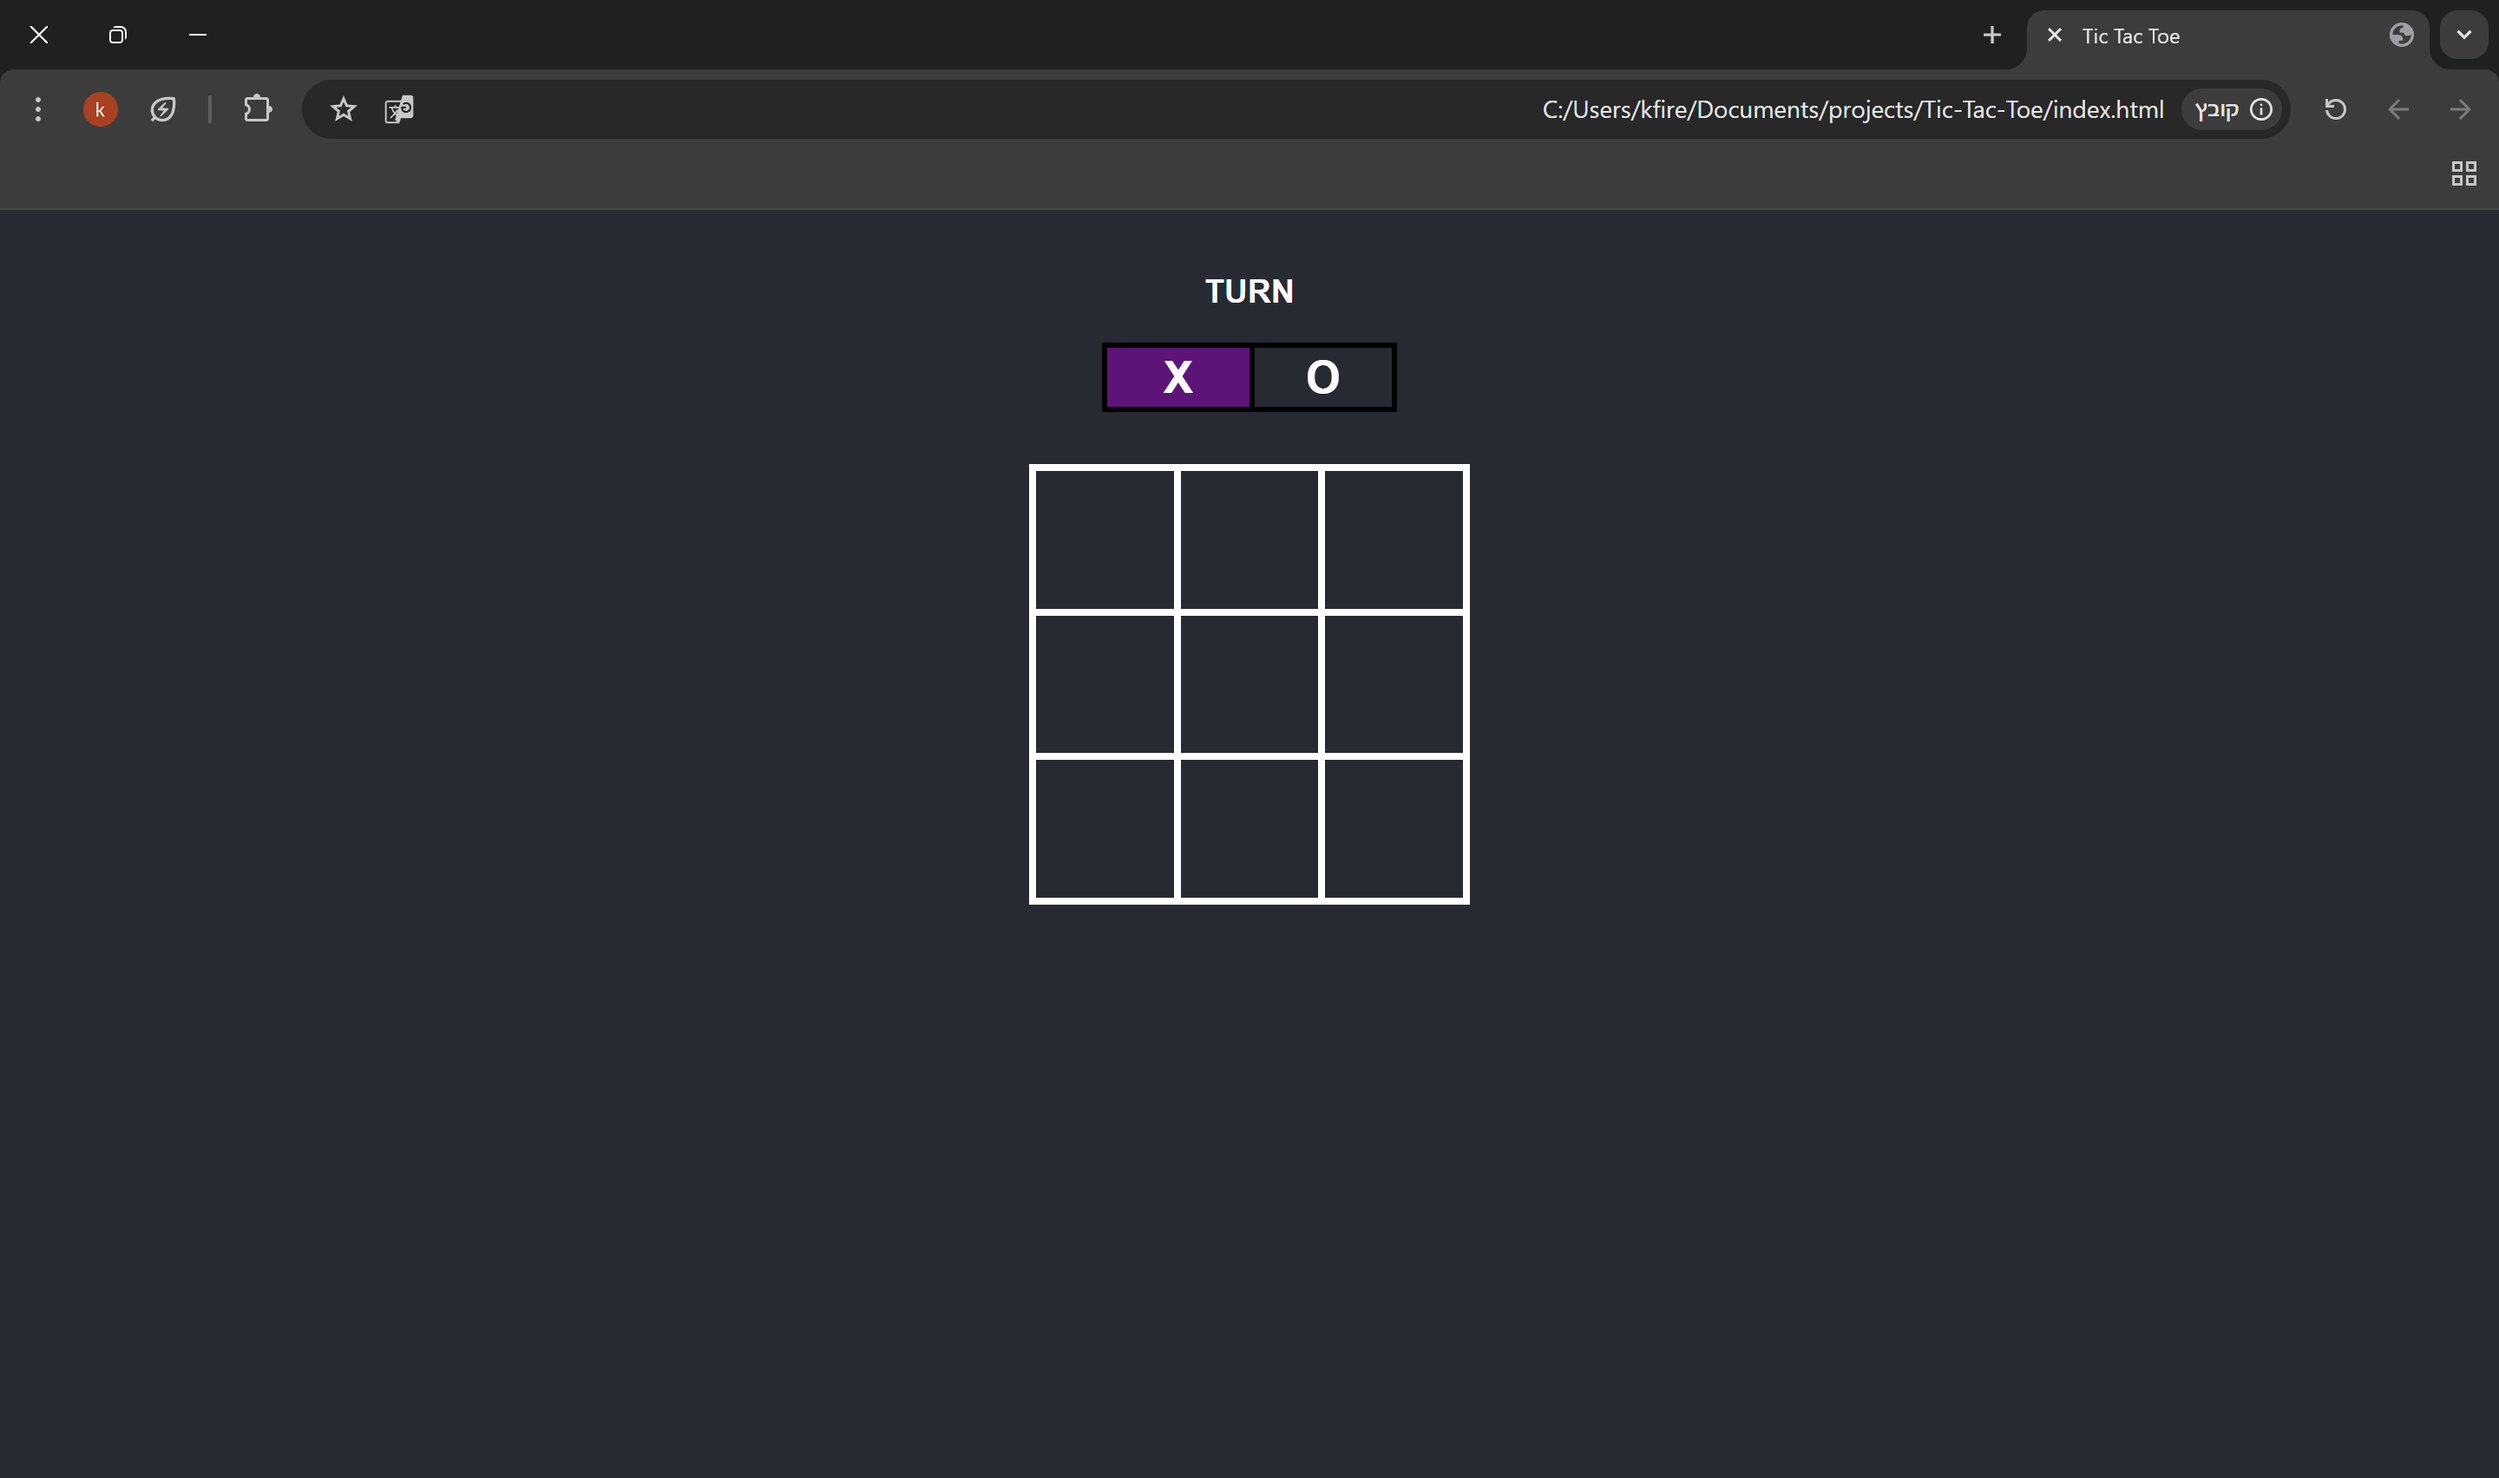
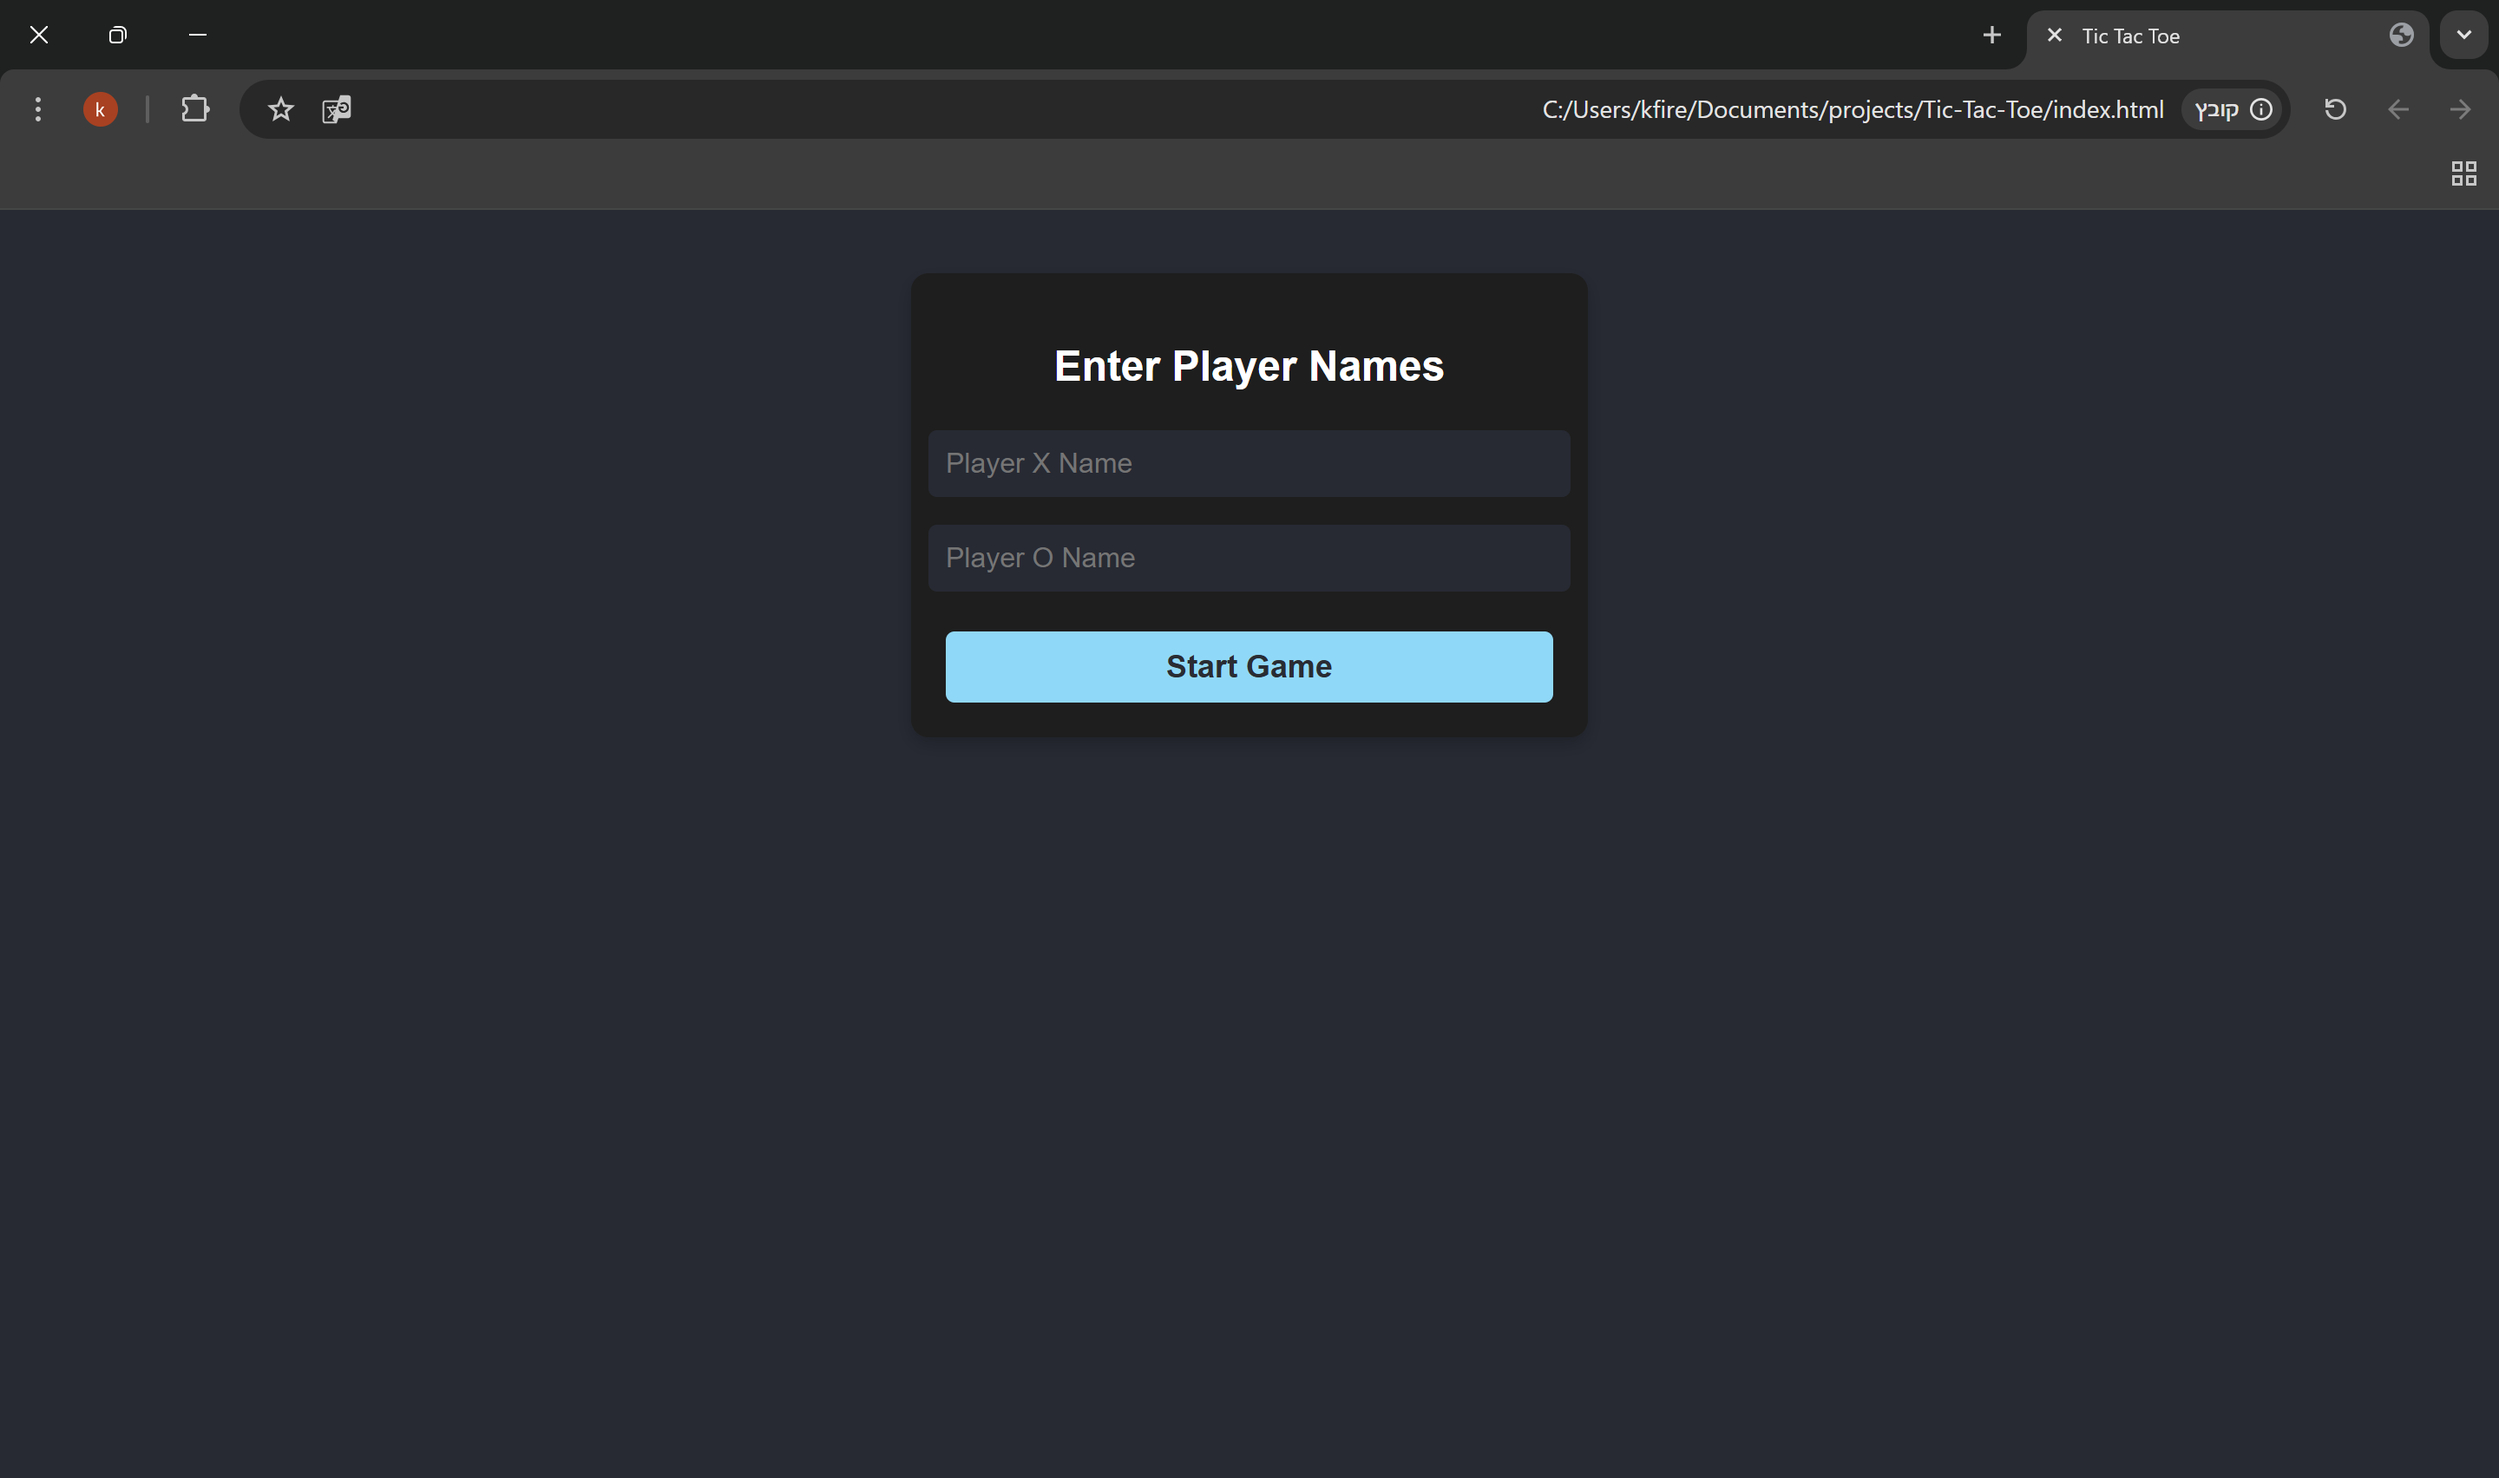
added players names and score board

diff --git a/script.js b/script.js
@@ -1,3 +1,4 @@
+// game variables
 let boxes = document.querySelectorAll(".box");
 let turn = "X";
 let gameOver = false;
@@ -5,21 +6,44 @@ const results = document.querySelector("#results");
 const playAgain =document.querySelector("#play-again")
 const bg = document.querySelector(".bg");
 
+// player data
+let playerX = "";
+let playerO = "";
+let scores = {X: 0 , O: 0};
+let startGame = document.querySelector("#start-game");
+
+// patterns to win on the board
 const winPatterns = [
-    [0, 1, 2], // Row 1
-    [3, 4, 5], // Row 2
-    [6, 7, 8], // Row 3
-    [0, 3, 6], // Column 1
-    [1, 4, 7], // Column 2
-    [2, 5, 8], // Column 3
-    [0, 4, 8], // Diagonal 1
-    [2, 4, 6]  // Diagonal 2
+    [0, 1, 2], [3, 4, 5], [6, 7, 8],
+    [0, 3, 6], [1, 4, 7], [2, 5, 8],
+    [0, 4, 8], [2, 4, 6]
 ];
+
+startGame.addEventListener("click", function () {
+    // set the players name
+    playerX = document.querySelector("#playerX").value || "Player X";
+    playerO = document.querySelector("#playerO").value || "Player O";
+
+    // show the game board
+    document.querySelector("#player-setup").style.display = "none";
+    document.querySelector("#game-board").style.display = "grid";
+
+    // put the players names on the score board
+    document.querySelector("#playerX-name").innerText = playerX;
+    document.querySelector("#playerO-name").innerText = playerO;
+});
+
+// if the user cliick enter it will start the game
+document.addEventListener("keydown", function(event) {
+    if (event.key === "Enter") {
+        startGame.click();
+    }
+});
 
 // for each box add listener on click to check wining, draw and change turnS
 boxes.forEach(e => {
     e.innerHTML = ""
-    e.addEventListener("click", function(){
+    e.addEventListener("click", function() {
         if(!gameOver && e.innerHTML == "") {
             e.innerHTML = turn;
             checkWin();
@@ -32,28 +56,22 @@ boxes.forEach(e => {
 
 // change turn function, also change the mark on the player symbole
 function changeTurn() {
-    if (turn === "X") {
-        turn = "O";
-        bg.style.left = "85px"
-    } else {
-        turn = "X";
-        bg.style.left = "0"
-    }
+    turn = (turn === "X") ? "O" : "X";
+    bg.style.left = (turn === "X") ? "0" : "85px";
 }
 
 // check if there is a winner
 function checkWin() {
     winPatterns.forEach(pattern => {
-        // if there is a player with one pattern, it means he won
+        // if there is a player with one pattern, game over
         let [a, b, c] = pattern;
         if (
             boxes[a].innerHTML &&
             boxes[a].innerHTML === boxes[b].innerHTML &&
             boxes[a].innerHTML === boxes[c].innerHTML
         ) {
-            // set game over and print the msg
+            // set game over
             gameOver = true;
-            results.innerText = turn + " wins!";
 
             // change the background of the wining boxes
             boxes[a].style.backgroundColor = "#007d69";
@@ -63,15 +81,26 @@ function checkWin() {
             // show play again btn
             playAgain.style.display = "inline";
 
-            // change the color of the wining symbole bg
+            // change the color of the wining symbole bg and cahnge the score
             if (turn === "X") {
                 bg.style.left = "0";
+                scores.X += 1;
             } else {
                 bg.style.left = "85px";
+                scores.O += 1;
             }
             bg.style.backgroundColor = "#007d69";
+
+            // update the score board
+            updateScore();
         }
     });
+}
+
+// update the score boxs
+function updateScore() {
+    document.querySelector("#scoreX").innerText = scores.X;
+    document.querySelector("#scoreO").innerText = scores.O;
 }
 
 // check if there is a draw
@@ -80,7 +109,7 @@ function checkDraw() {
     if (![...boxes].some(box => box.innerHTML === "") && !gameOver) {
         // set game over and print msg
         gameOver = true;
-        results.innerText = "It's a Draw! 🤝";
+        results.innerText = "It's a Draw!";
 
         // draw all the boxes
         boxes.forEach(box => (box.style.backgroundColor = "#69007d"));
@@ -102,11 +131,11 @@ playAgain.addEventListener("click", () => {
 
     results.innerText = "";
     gameOver = false;
-    turn = "X";
+    
+    // if the O wins he will start
+    turn = (turn === "X") ? "X" : "O";
+    bg.style.left = (turn === "X") ? "0" : "85px";
+    bg.style.backgroundColor = "#69007d";
 
     document.getElementById("play-again").style.display = "none";
-
-    document.querySelector(".bg").style.left = "0";
-
-    bg.style.backgroundColor = "#69007d";
 });

diff --git a/index.html b/index.html
@@ -5,25 +5,50 @@
     <link rel="stylesheet" href="styles.css"/>
 </head>
 <body>
-    <div class="turn-container">
-        <h3>TURN</h3>
-        <div class="turn-box align">X</div>
-        <div class="turn-box align">O</div>
-        <div class="bg"></div>
+    <div id="player-setup">
+        <h2>Enter Player Names</h2>
+        <input type="text" id="playerX" placeholder="Player X Name">
+        <input type="text" id="playerO" placeholder="Player O Name">
+        <button id="start-game">Start Game</button>
     </div>
-    <div class="main-grid">
-        <div class="box align">0</div>
-        <div class="box align">1</div>
-        <div class="box align">2</div>
-        <div class="box align">3</div>
-        <div class="box align">4</div>
-        <div class="box align">5</div>
-        <div class="box align">6</div>
-        <div class="box align">7</div>
-        <div class="box align">8</div>
+
+
+    <div id="game-board" style="display: none;">
+        <div class="turn-container">
+            <h3>TURN</h3>
+            <div class="turn-box align">X</div>
+            <div class="turn-box align">O</div>
+            <div class="bg"></div>
+        </div>
+        <div class="main-grid">
+            <div class="box align">0</div>
+            <div class="box align">1</div>
+            <div class="box align">2</div>
+            <div class="box align">3</div>
+            <div class="box align">4</div>
+            <div class="box align">5</div>
+            <div class="box align">6</div>
+            <div class="box align">7</div>
+            <div class="box align">8</div>
+        </div>
+
+        <div id="scores">
+            <h3>Scoreboard</h3>
+            <div class="score-container">
+                <div class="player-score">
+                    <span id="playerX-name">Player X:</span>
+                    <span id="scoreX">0</span>
+                </div>
+                <div class="player-score">
+                    <span id="playerO-name">Player O:</span>
+                    <span id="scoreO">0</span>
+                </div>
+            </div>
+        </div>
+
+        <h2 id="results"></h2>
+        <button id="play-again">Play Again</button>
     </div>
-    <h2 id="results"></h2>
-    <button id="play-again">Play Again</button>
     <script src="script.js"></script>
 </body>
 </html>

diff --git a/styles.css b/styles.css
@@ -16,6 +16,8 @@ body {
     width: 100vw;
     text-align: center;
     padding-top: 5vh;
+    justify-content: center;
+    display: flex;
 }
 .main-grid {
     display: grid;
@@ -79,4 +81,104 @@ body {
     height: 40px;
     background-color: #69007d;
     z-index: -1;
+}
+
+#player-setup {
+    text-align: center;
+    background: #1e1e1e;
+    padding: 20px;
+    border-radius: 10px;
+    box-shadow: 0px 4px 10px rgba(0, 0, 0, 0.2);
+    width: 350px;
+    display: flex;
+    flex-direction: column;
+    justify-content: center;
+    align-items: center;
+}
+
+#player-setup h2 {
+    margin-bottom: 15px;
+    font-size: 24px;
+}
+
+#player-setup input {
+    width: 100%;
+    padding: 10px;
+    margin: 8px 0;
+    border: none;
+    border-radius: 5px;
+    font-size: 16px;
+    background-color: #252A34;
+}
+
+#player-setup input:focus {
+    outline: 2px solid #61dafb;
+}
+
+#start-game {
+    width: 100%;
+    padding: 10px;
+    margin-top: 15px;
+    background: #61dafb;
+    color: #282c34;
+    font-size: 18px;
+    font-weight: bold;
+    border: none;
+    border-radius: 5px;
+    cursor: pointer;
+    transition: background 0.3s;
+}
+
+#start-game:hover {
+    background: #4fa3d1;
+}
+
+#scores {
+    text-align: center;
+    margin-top: -5px;
+    padding: 15px;
+    background: #282c34;
+    border-radius: 12px;
+    box-shadow: 0px 6px 12px rgba(0, 0, 0, 0.15);
+    width: 280px;
+    color: #ffffff;
+}
+
+#scores h3 {
+    margin-bottom: 12px;
+    font-size: 20px;
+    font-weight: 600;
+    color: #61dafb;
+    letter-spacing: 1px;
+}
+
+.score-container {
+    display: flex;
+    justify-content: space-between;
+    padding: 10px;
+    background: rgba(255, 255, 255, 0.05);
+    border-radius: 8px;
+}
+
+.player-score {
+    display: flex;
+    flex-direction: column;
+    align-items: center;
+    justify-content: center;
+    width: 120px;
+    padding: 10px;
+    font-size: 18px;
+    font-weight: 500;
+}
+
+.player-score span:first-child {
+    color: #b0c4de;
+    font-size: 16px;
+    margin-bottom: 5px;
+}
+
+.player-score span:last-child {
+    font-size: 22px;
+    font-weight: bold;
+    color: #ffcc00;
 }

diff --git a/README.md b/README.md
@@ -5,3 +5,4 @@ A simple Tic-Tac-Toe game built using **HTML**, **CSS**, and **JavaScript**. Pla
 ![Game Screenshot](photos/1.png)
 ![Game Screenshot](photos/2.png)
 ![Game Screenshot](photos/3.png)
+![Game Screenshot](photos/4.png)
